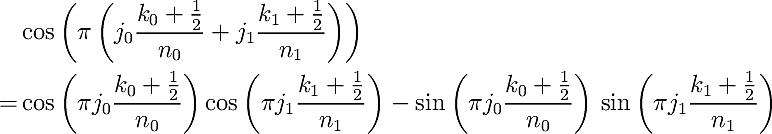
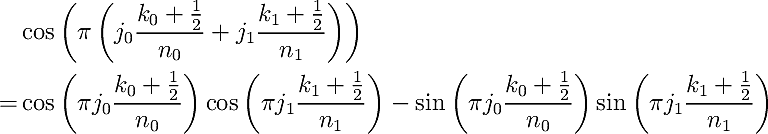
cosmetics on tex

diff --git a/eqn/true_2d_idct_kernel.tex b/eqn/true_2d_idct_kernel.tex
@@ -12,15 +12,10 @@
 \pagestyle{empty}
 
 \begin{document}
-% \begin{align*}
-%  ~& \cos \left( \pi \left( j_0 \frac{k_0 + \frac{1}{2}}{n_0} + j_1 \frac{k_1 + \frac{1}{2}}{n_1} \right)  \right) \\
-%  =& \phantom{-}\, \cos \left( \pi j_0 \frac{k_0 + \frac{1}{2}}{n_0} \right) \cos \left( \pi j_1 \frac{k_1 + \frac{1}{2}}{n_1} \right) \\
-%  ~&          -   \sin \left( \pi j_0 \frac{k_0 + \frac{1}{2}}{n_0} \right) \, \sin \left( \pi j_1 \frac{k_1 + \frac{1}{2}}{n_1} \right)
-% \end{align*}
 \begin{align*}
  ~& \cos \left( \pi \left( j_0 \frac{k_0 + \frac{1}{2}}{n_0} + j_1 \frac{k_1 + \frac{1}{2}}{n_1} \right)  \right) \\
  =&   \cos \left( \pi j_0 \frac{k_0 + \frac{1}{2}}{n_0} \right) \cos \left( \pi j_1 \frac{k_1 + \frac{1}{2}}{n_1} \right)
-    - \sin \left( \pi j_0 \frac{k_0 + \frac{1}{2}}{n_0} \right) \, \sin \left( \pi j_1 \frac{k_1 + \frac{1}{2}}{n_1} \right)
+    - \sin \left( \pi j_0 \frac{k_0 + \frac{1}{2}}{n_0} \right) \sin \left( \pi j_1 \frac{k_1 + \frac{1}{2}}{n_1} \right)
 \end{align*}
 \end{document}
 
